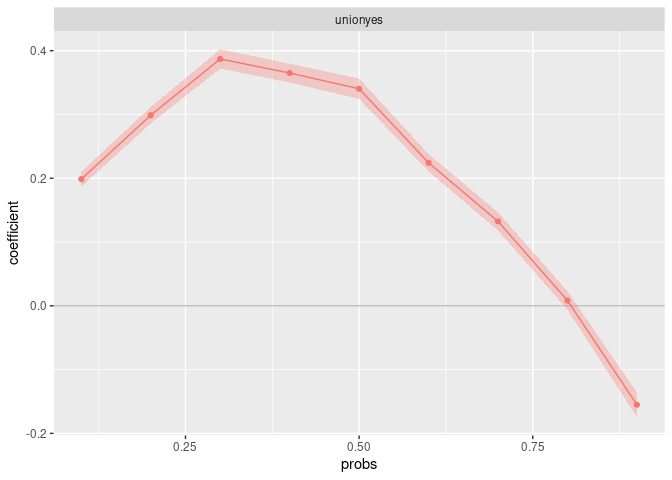
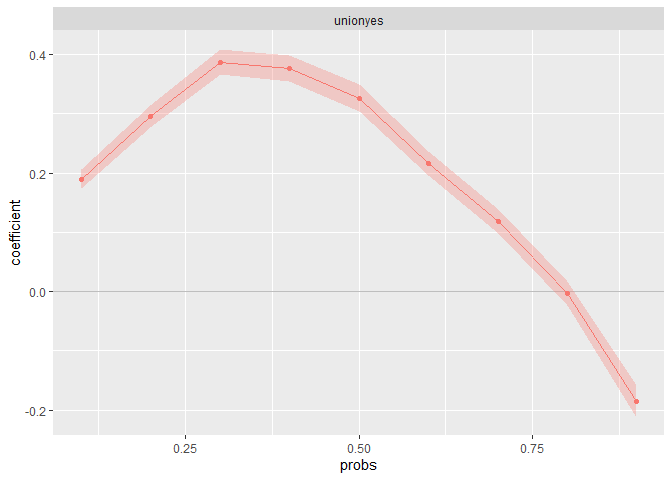
I newly compiled README with adjusted Gini-RIF calculation.

diff --git a/README.md b/README.md
@@ -1,36 +1,29 @@
 
-- <a href="#rifreg-estimate-recentered-influence-function-regressions"
-  id="toc-rifreg-estimate-recentered-influence-function-regressions"><code>rifreg</code>:
-  Estimate recentered influence function regressions</a>
-  - <a href="#overview" id="toc-overview">Overview</a>
-  - <a href="#installation" id="toc-installation">Installation</a>
-  - <a href="#background" id="toc-background">Background</a>
-    - <a href="#unconditional-partial-effects"
-      id="toc-unconditional-partial-effects">Unconditional partial effects</a>
-    - <a href="#estimation" id="toc-estimation">Estimation</a>
-    - <a href="#inference" id="toc-inference">Inference</a>
-  - <a href="#example" id="toc-example">Example</a>
-    - <a href="#unconditional-quantile-regressions"
-      id="toc-unconditional-quantile-regressions">Unconditional quantile
-      regressions</a>
-    - <a href="#bootstrapping-standard-errors"
-      id="toc-bootstrapping-standard-errors">Bootstrapping standard errors</a>
-    - <a href="#other-distributional-statistics"
-      id="toc-other-distributional-statistics">Other distributional
-      statistics</a>
-    - <a href="#user-written-rif-functions"
-      id="toc-user-written-rif-functions">User-written RIF functions</a>
-  - <a href="#replication-of-firpo-fortin-and-lemieux-2009a"
-    id="toc-replication-of-firpo-fortin-and-lemieux-2009a">Replication of
-    Firpo, Fortin, and Lemieux (2009a)</a>
-    - <a href="#data-preparation" id="toc-data-preparation">Data
-      preparation</a>
-    - <a href="#unconditional-quantile-regressions-1"
-      id="toc-unconditional-quantile-regressions-1">‘Unconditional quantile
-      regressions’</a>
-    - <a href="#results" id="toc-results">Results</a>
-  - <a href="#credits" id="toc-credits">Credits</a>
-  - <a href="#references" id="toc-references">References</a>
+-   [`rifreg`: Estimate recentered influence function
+    regressions](#rifreg-estimate-recentered-influence-function-regressions)
+    -   [Overview](#overview)
+    -   [Installation](#installation)
+    -   [Background](#background)
+        -   [Unconditional partial
+            effects](#unconditional-partial-effects)
+        -   [Estimation](#estimation)
+        -   [Inference](#inference)
+    -   [Example](#example)
+        -   [Unconditional quantile
+            regressions](#unconditional-quantile-regressions)
+        -   [Bootstrapping standard
+            errors](#bootstrapping-standard-errors)
+        -   [Other distributional
+            statistics](#other-distributional-statistics)
+        -   [User-written RIF functions](#user-written-rif-functions)
+    -   [Replication of Firpo, Fortin, and Lemieux
+        (2009a)](#replication-of-firpo-fortin-and-lemieux-2009a)
+        -   [Data preparation](#data-preparation)
+        -   [‘Unconditional quantile
+            regressions’](#unconditional-quantile-regressions-1)
+        -   [Results](#results)
+    -   [Credits](#credits)
+    -   [References](#references)
 
 <!-- README.md is generated from README.Rmd. Please edit that file -->
 
@@ -142,7 +135,8 @@ al. (2009a).
 
 ``` r
 library(rifreg)
-#> Loading required package: ggplot2
+#> Lade nötiges Paket: ggplot2
+#> Warning: Paket 'ggplot2' wurde unter R Version 4.1.3 erstellt
 data("men8385")
 ```
 
@@ -166,59 +160,59 @@ fit_uqr <- rifreg(ffl_model,
 fit_uqr
 #> Rifreg coefficients:
 #>                        rif_quantile_0.1 rif_quantile_0.2 rif_quantile_0.3
-#> (Intercept)                 0.970857088      1.179109721      1.358386467
-#> unionyes                    0.198602743      0.298897702      0.386994339
-#> nonwhiteyes                -0.119114400     -0.169377662     -0.213310984
-#> marriedyes                  0.201798293      0.235994063      0.252969436
-#> educationElementary        -0.330658130     -0.458475630     -0.541317352
-#> educationHS dropout        -0.366434292     -0.314803541     -0.278251916
-#> educationSome College       0.049659609      0.110356109      0.151998138
-#> educationCollege            0.201144576      0.328957233      0.446340964
-#> educationPost-graduate      0.141083238      0.278262795      0.411585674
-#> experience0-4              -0.567399813     -0.675621784     -0.744535859
-#> experience5-9              -0.083794606     -0.159418282     -0.253447553
-#> experience10-14            -0.032102547     -0.076472362     -0.116601430
-#> experience15-19            -0.021649604     -0.036089249     -0.045319698
-#> experience25-29             0.004401242      0.003212986      0.008231836
-#> experience30-34            -0.004767943     -0.006481069      0.002965612
-#> experience35-39            -0.003914586      0.006038244      0.019524965
-#> experience>=40              0.064694355      0.057780569      0.034726270
+#> (Intercept)                0.9677792610      1.172213535      1.325780438
+#> unionyes                   0.1895711045      0.295708058      0.387279233
+#> nonwhiteyes               -0.1302511708     -0.184938936     -0.222993675
+#> marriedyes                 0.2026240066      0.245443996      0.279350762
+#> educationElementary       -0.3538349864     -0.477813514     -0.567215062
+#> educationHS dropout       -0.3439659659     -0.330587413     -0.298250126
+#> educationSome College      0.0548174446      0.115735854      0.159809840
+#> educationCollege           0.1947681874      0.337966305      0.460910464
+#> educationPost-graduate     0.1379931672      0.293259904      0.418461668
+#> experience0-4             -0.5594535441     -0.693356537     -0.745007226
+#> experience5-9             -0.0884216366     -0.165305983     -0.220432343
+#> experience10-14           -0.0342842679     -0.074728354     -0.105916205
+#> experience15-19           -0.0196581519     -0.025196360     -0.012289163
+#> experience25-29           -0.0001536202      0.011879493      0.022959778
+#> experience30-34           -0.0078147850     -0.015604532      0.005169821
+#> experience35-39           -0.0122061390      0.008904716      0.037273681
+#> experience>=40             0.0668346684      0.079740838      0.059595518
 #>                        rif_quantile_0.4 rif_quantile_0.5 rif_quantile_0.6
-#> (Intercept)                 1.576432103       1.74646597       1.90337416
-#> unionyes                    0.364913513       0.34030574       0.22422100
-#> nonwhiteyes                -0.199584659      -0.19077337      -0.15140862
-#> marriedyes                  0.194950211       0.15861935       0.11051797
-#> educationElementary        -0.516700583      -0.50630503      -0.37539155
-#> educationHS dropout        -0.231527526      -0.20853794      -0.14443228
-#> educationSome College       0.173841919       0.19289983       0.15746081
-#> educationCollege            0.457356514       0.49512703       0.42651001
-#> educationPost-graduate      0.461351523       0.53302843       0.48655626
-#> experience0-4              -0.687106540      -0.64823661      -0.47173107
-#> experience5-9              -0.307969066      -0.36149797      -0.29791375
-#> experience10-14            -0.152827202      -0.18921874      -0.16379394
-#> experience15-19            -0.071870567      -0.06551663      -0.04962905
-#> experience25-29             0.002968522       0.01863508       0.03043321
-#> experience30-34             0.012083234       0.03899880       0.04962817
-#> experience35-39             0.022326253       0.03524896       0.04742285
-#> experience>=40              0.001684911       0.01020244       0.00867607
+#> (Intercept)                 1.547879317       1.73140047       1.88762362
+#> unionyes                    0.376178021       0.32656124       0.21618201
+#> nonwhiteyes                -0.211524098      -0.20089992      -0.15081897
+#> marriedyes                  0.218579264       0.17922604       0.12516285
+#> educationElementary        -0.527971072      -0.52330591      -0.39214911
+#> educationHS dropout        -0.233202999      -0.21714277      -0.14751977
+#> educationSome College       0.188642574       0.18926091       0.16383750
+#> educationCollege            0.474357160       0.49065030       0.42622108
+#> educationPost-graduate      0.476018944       0.52000299       0.48451657
+#> experience0-4              -0.693878756      -0.63307290      -0.46205315
+#> experience5-9              -0.291032518      -0.32426725      -0.27624894
+#> experience10-14            -0.150302627      -0.18548369      -0.16165480
+#> experience15-19            -0.063367268      -0.05039387      -0.03136320
+#> experience25-29             0.011729605       0.04157812       0.05332638
+#> experience30-34             0.003230684       0.03808255       0.04933966
+#> experience35-39             0.023439785       0.03960192       0.05042873
+#> experience>=40              0.020878466       0.02103064       0.03816951
 #>                        rif_quantile_0.7 rif_quantile_0.8 rif_quantile_0.9
-#> (Intercept)                  2.08335156      2.243138267       2.50910141
-#> unionyes                     0.13231888      0.008239871      -0.15515221
-#> nonwhiteyes                 -0.12267681     -0.112884094      -0.11827633
-#> marriedyes                   0.07976414      0.057116207       0.05285737
-#> educationElementary         -0.32376628     -0.256429944      -0.26626430
-#> educationHS dropout         -0.12677063     -0.102227401      -0.08536648
-#> educationSome College        0.15809893      0.148460496       0.16684309
-#> educationCollege             0.44437130      0.454287435       0.60641514
-#> educationPost-graduate       0.54341643      0.616454232       0.89050987
-#> experience0-4               -0.43860774     -0.391417522      -0.45705327
-#> experience5-9               -0.31332993     -0.299200841      -0.36542130
-#> experience10-14             -0.19495274     -0.190724443      -0.24722551
-#> experience15-19             -0.07479452     -0.085321103      -0.11087371
-#> experience25-29              0.02868761      0.045826795       0.08953774
-#> experience30-34              0.04377733      0.078268103       0.07987727
-#> experience35-39              0.02694454      0.028296285       0.06769310
-#> experience>=40              -0.01456717     -0.015007184      -0.02721068
+#> (Intercept)                  2.06188618      2.227099388     2.5134402077
+#> unionyes                     0.11856052     -0.002668701    -0.1845993753
+#> nonwhiteyes                 -0.11452478     -0.111328873    -0.1179041562
+#> marriedyes                   0.10121558      0.080787039     0.0638341029
+#> educationElementary         -0.31280611     -0.239681227    -0.2631182933
+#> educationHS dropout         -0.12298166     -0.095285104    -0.0810231642
+#> educationSome College        0.16102176      0.148442066     0.1717646078
+#> educationCollege             0.44309979      0.452333786     0.6361150750
+#> educationPost-graduate       0.53248414      0.608167593     0.8634031947
+#> experience0-4               -0.41478063     -0.374038464    -0.4707231875
+#> experience5-9               -0.29282199     -0.293692808    -0.3803066361
+#> experience10-14             -0.19552918     -0.195891076    -0.2567293916
+#> experience15-19             -0.05541812     -0.068011449    -0.1172958311
+#> experience25-29              0.03431078      0.037563573     0.0765214464
+#> experience30-34              0.06282862      0.079719979     0.0951429489
+#> experience35-39              0.04234117      0.024843423     0.0710476353
+#> experience>=40              -0.01446069     -0.023883275    -0.0002511195
 ```
 
 The `summary` method returns the estimated coefficients and the standard
@@ -273,7 +267,7 @@ plot(fit_uqr,
 
 `rifreg` performs RIF regressions for other distributional statistics
 than quantiles. Per default, the “mean”, “variance”, “quantiles”,
-“gini”, “interquantile_range” and “interquantile_ratio” are available.
+“gini”, “interquantile\_range” and “interquantile\_ratio” are available.
 
 ``` r
 ffl_model2 <- wage ~ union + nonwhite + married + education + experience
@@ -289,24 +283,24 @@ fit_d9d1 <- rifreg(ffl_model2,
   probs = c(0.9, 0.1)
 )
 cbind(fit_gini$estimates, fit_d9d1$estimates)
-#>                           rif_gini rif_iq_ratio_0.9_0.1
-#> (Intercept)            -3.60225797            4.8851827
-#> unionyes               -0.98769909           -3.1983486
-#> nonwhiteyes             0.83273753            0.9804660
-#> marriedyes             -0.70975056           -2.3156881
-#> educationElementary     2.12101685            2.9971699
-#> educationHS dropout     0.97020642            4.2520301
-#> educationSome College  -0.85371897            0.1127903
-#> educationCollege       -2.49171458            0.1489916
-#> educationPost-graduate -2.92713536            2.1686951
-#> experience0-4           2.94517028            5.1423852
-#> experience5-9           1.63033635           -0.5625992
-#> experience10-14         0.93208423           -0.6913670
-#> experience15-19         0.37262020           -0.2184045
-#> experience25-29        -0.17086373            0.3417035
-#> experience30-34        -0.24904725            0.4147115
-#> experience35-39        -0.17830041            0.3498597
-#> experience>=40         -0.01665794           -0.9383281
+#>                             rif_gini rif_iq_ratio_0.9_0.1
+#> (Intercept)             3.421206e-01           4.94181575
+#> unionyes               -1.018427e-01          -3.32876900
+#> nonwhiteyes             1.584179e-02           1.18306521
+#> marriedyes             -4.032892e-02          -2.38355788
+#> educationElementary     4.962951e-02           3.47135861
+#> educationHS dropout     4.645365e-02           4.15915721
+#> educationSome College   7.404217e-03           0.05495204
+#> educationCollege        5.411113e-02           0.27436327
+#> educationPost-graduate  1.177852e-01           2.04326109
+#> experience0-4           4.309944e-02           5.25521727
+#> experience5-9          -3.926436e-02          -0.50972382
+#> experience10-14        -4.094298e-02          -0.69812905
+#> experience15-19        -1.736913e-02          -0.25813685
+#> experience25-29         1.517589e-02           0.36083915
+#> experience30-34         1.488841e-02           0.54174386
+#> experience35-39         5.190609e-03           0.50875385
+#> experience>=40          8.894634e-05          -0.88388009
 ```
 
 ### User-written RIF functions
@@ -364,23 +358,23 @@ fit_top_10 <- rifreg(ffl_model2,
 fit_top_10
 #> Rifreg coefficients:
 #>                        rif_top_income_share
-#> (Intercept)                     0.256731886
-#> unionyes                       -0.068997798
-#> nonwhiteyes                     0.007531907
-#> marriedyes                     -0.017344324
-#> educationElementary             0.024329590
-#> educationHS dropout             0.022054504
-#> educationSome College           0.002197374
-#> educationCollege                0.031589544
-#> educationPost-graduate          0.080400757
-#> experience0-4                   0.014372720
-#> experience5-9                  -0.018702959
-#> experience10-14                -0.026032457
-#> experience15-19                -0.013896898
-#> experience25-29                 0.007969714
-#> experience30-34                 0.008465597
-#> experience35-39                 0.005562271
-#> experience>=40                  0.002429636
+#> (Intercept)                    0.2603167792
+#> unionyes                      -0.0683100301
+#> nonwhiteyes                    0.0089816022
+#> marriedyes                    -0.0219216751
+#> educationElementary            0.0252425640
+#> educationHS dropout            0.0221077827
+#> educationSome College          0.0025577576
+#> educationCollege               0.0386916446
+#> educationPost-graduate         0.0804506915
+#> experience0-4                  0.0110458948
+#> experience5-9                 -0.0227483071
+#> experience10-14               -0.0286122339
+#> experience15-19               -0.0115646111
+#> experience25-29                0.0114751845
+#> experience30-34                0.0041189370
+#> experience35-39                0.0009313563
+#> experience>=40                 0.0111984967
 ```
 
 ## Replication of Firpo, Fortin, and Lemieux (2009a)
@@ -398,12 +392,13 @@ website](https://www.econometricsociety.org/publications/econometrica/2009/05/01
 
 ``` r
 library("dplyr")
+#> Warning: Paket 'dplyr' wurde unter R Version 4.1.3 erstellt
 #> 
-#> Attaching package: 'dplyr'
-#> The following objects are masked from 'package:stats':
+#> Attache Paket: 'dplyr'
+#> Die folgenden Objekte sind maskiert von 'package:stats':
 #> 
 #>     filter, lag
-#> The following objects are masked from 'package:base':
+#> Die folgenden Objekte sind maskiert von 'package:base':
 #> 
 #>     intersect, setdiff, setequal, union
 
@@ -413,7 +408,7 @@ library("dplyr")
 # men8385 <- readstata13::read.dta13(file = unzip("6822_data%20and%20programs_0.zip","men8385.dta"))
 
 ## Load data
-men8385 <- readstata13::read.dta13("men8385.dta")
+men8385 <- readstata13::read.dta13("data-raw/men8385.dta")
 
 # Save dummies as factor variables
 # nine potential experience categories (each of five years gap)
@@ -484,7 +479,7 @@ men8385 %>%
     min = min(experience_in_years, na.rm = TRUE),
     max = max(experience_in_years, na.rm = TRUE)
   )
-#> # A tibble: 9 × 3
+#> # A tibble: 9 x 3
 #>   experience   min   max
 #>   <fct>      <dbl> <dbl>
 #> 1 20-24         20    24
@@ -503,7 +498,7 @@ men8385 %>%
     min = min(education_in_years, na.rm = TRUE),
     max = max(education_in_years, na.rm = TRUE)
   )
-#> # A tibble: 6 × 3
+#> # A tibble: 6 x 3
 #>   education       min   max
 #>   <fct>         <dbl> <dbl>
 #> 1 High School      12    12
@@ -558,20 +553,20 @@ results <- cbind(estimates, standard_errors)[, c(1, 4, 2, 5, 3, 6)]
 results$ols <- ffl_ols_fit$coefficients[1:9]
 names(results) <- c("Coefficient 0.1", "SE", "Coefficient 0.5", "SE", "Coefficient 0.9", "SE", "OLS")
 
-knitr::kable(results)
+knitr::kable(results, digits = 3)
 ```
 
-|                        | Coefficient 0.1 |        SE | Coefficient 0.5 |        SE | Coefficient 0.9 |        SE |        OLS |
-|:-----------------------|----------------:|----------:|----------------:|----------:|----------------:|----------:|-----------:|
-| (Intercept)            |       0.9704165 | 0.0050124 |       1.7346767 | 0.0056697 |       2.5112831 | 0.0085605 |  1.7418195 |
-| unionyes               |       0.1950164 | 0.0026616 |       0.3361029 | 0.0037823 |      -0.1345583 | 0.0043157 |  0.1790582 |
-| nonwhiteyes            |      -0.1161961 | 0.0050775 |      -0.1635135 | 0.0043629 |      -0.0989621 | 0.0044194 | -0.1339497 |
-| marriedyes             |       0.1943921 | 0.0038844 |       0.1556403 | 0.0033141 |       0.0430328 | 0.0038816 |  0.1395608 |
-| educationElementary    |      -0.3063238 | 0.0075381 |      -0.4510738 | 0.0060972 |      -0.2396602 | 0.0045286 | -0.3512943 |
-| educationHS dropout    |      -0.3438799 | 0.0062425 |      -0.1942754 | 0.0040358 |      -0.0679424 | 0.0034208 | -0.1897010 |
-| educationSome College  |       0.0579543 | 0.0040457 |       0.1782772 | 0.0040114 |       0.1533879 | 0.0050320 |  0.1333362 |
-| educationCollege       |       0.1962486 | 0.0040961 |       0.4635776 | 0.0050486 |       0.5810668 | 0.0082048 |  0.4064842 |
-| educationPost-graduate |       0.1379375 | 0.0037447 |       0.5212637 | 0.0058163 |       0.8430019 | 0.0117381 |  0.4777400 |
+|                        | Coefficient 0.1 |    SE | Coefficient 0.5 |    SE | Coefficient 0.9 |    SE |    OLS |
+|:-----------------------|----------------:|------:|----------------:|------:|----------------:|------:|-------:|
+| (Intercept)            |           0.970 | 0.005 |           1.735 | 0.006 |           2.511 | 0.009 |  1.742 |
+| unionyes               |           0.195 | 0.003 |           0.336 | 0.004 |          -0.135 | 0.004 |  0.179 |
+| nonwhiteyes            |          -0.116 | 0.005 |          -0.164 | 0.004 |          -0.099 | 0.004 | -0.134 |
+| marriedyes             |           0.194 | 0.004 |           0.156 | 0.003 |           0.043 | 0.004 |  0.140 |
+| educationElementary    |          -0.306 | 0.008 |          -0.451 | 0.006 |          -0.240 | 0.005 | -0.351 |
+| educationHS dropout    |          -0.344 | 0.006 |          -0.194 | 0.004 |          -0.068 | 0.003 | -0.190 |
+| educationSome College  |           0.058 | 0.004 |           0.178 | 0.004 |           0.153 | 0.005 |  0.133 |
+| educationCollege       |           0.196 | 0.004 |           0.464 | 0.005 |           0.581 | 0.008 |  0.406 |
+| educationPost-graduate |           0.138 | 0.004 |           0.522 | 0.006 |           0.843 | 0.012 |  0.478 |
 
 Our results largely match those by Firpo, Fortin, and Lemieux (2009a:
 964, Table I). The OLS results are identical as expected. The RIF
